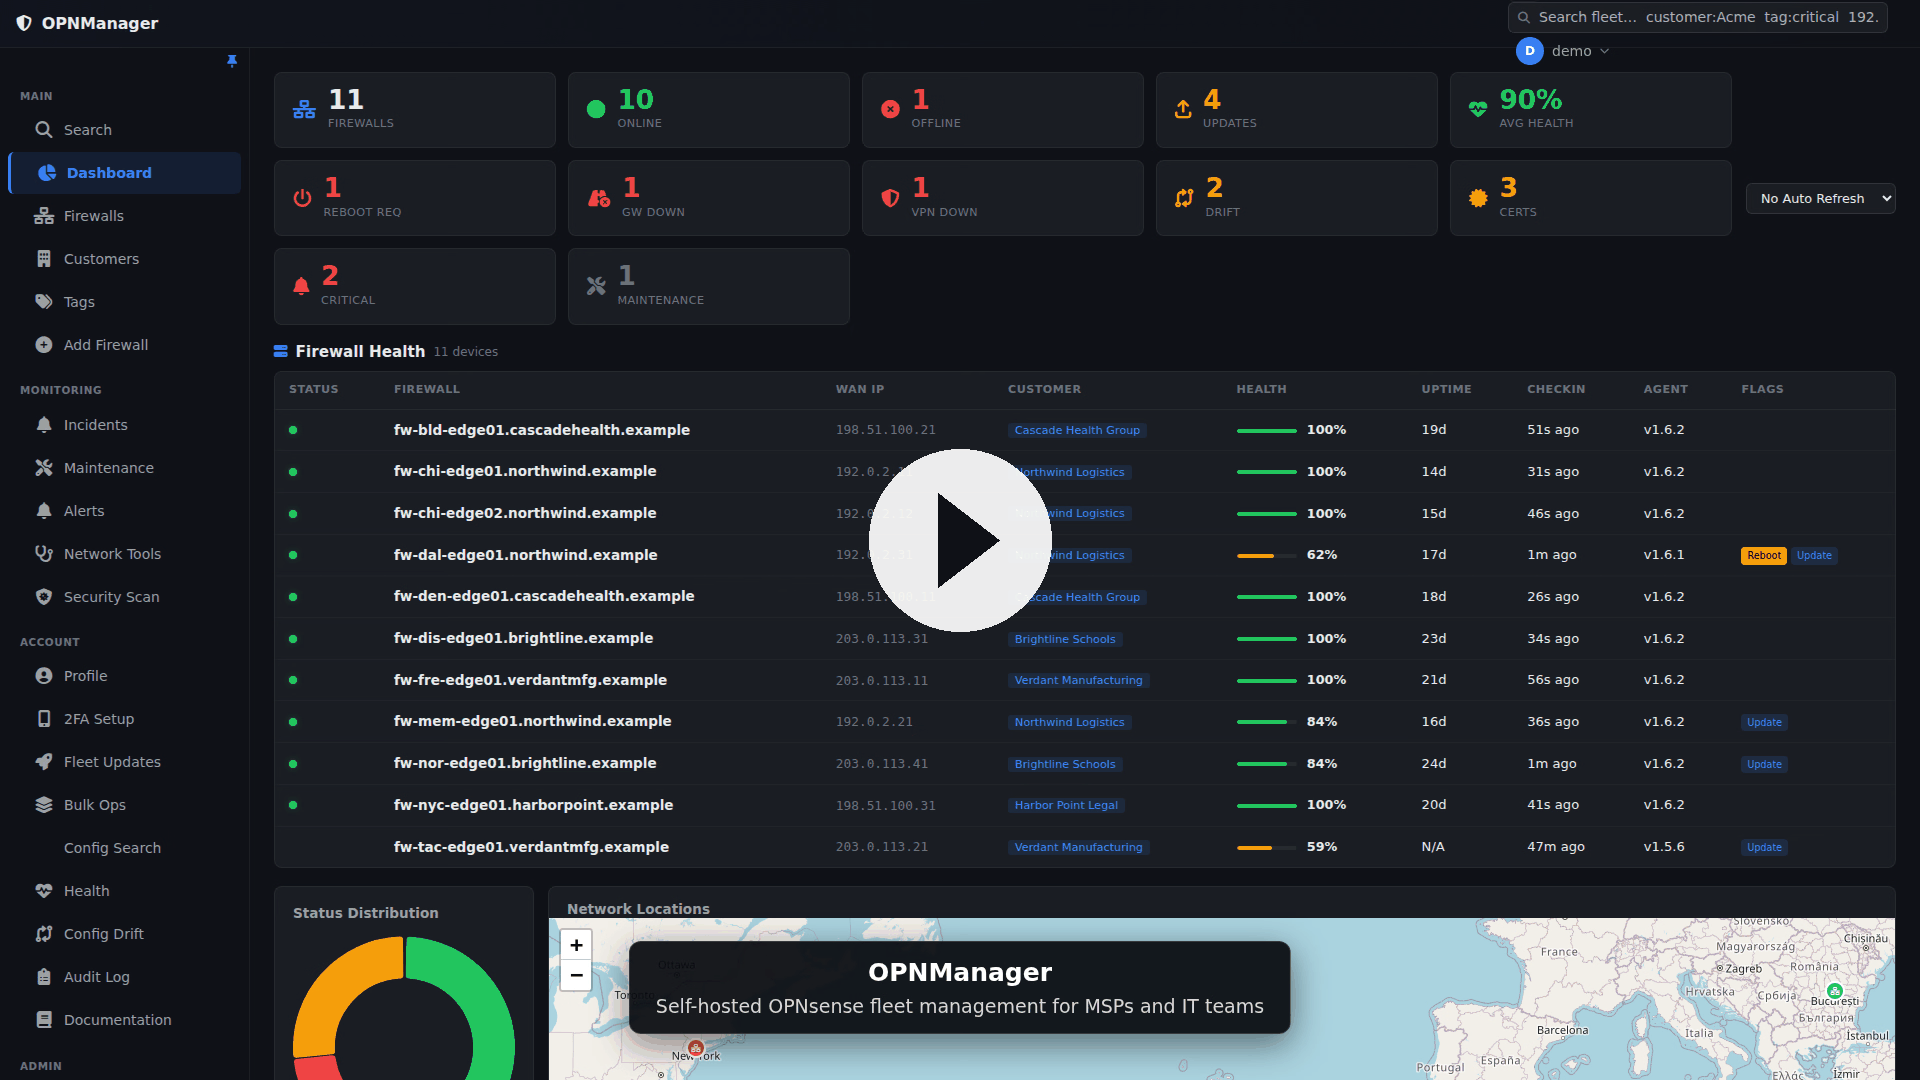
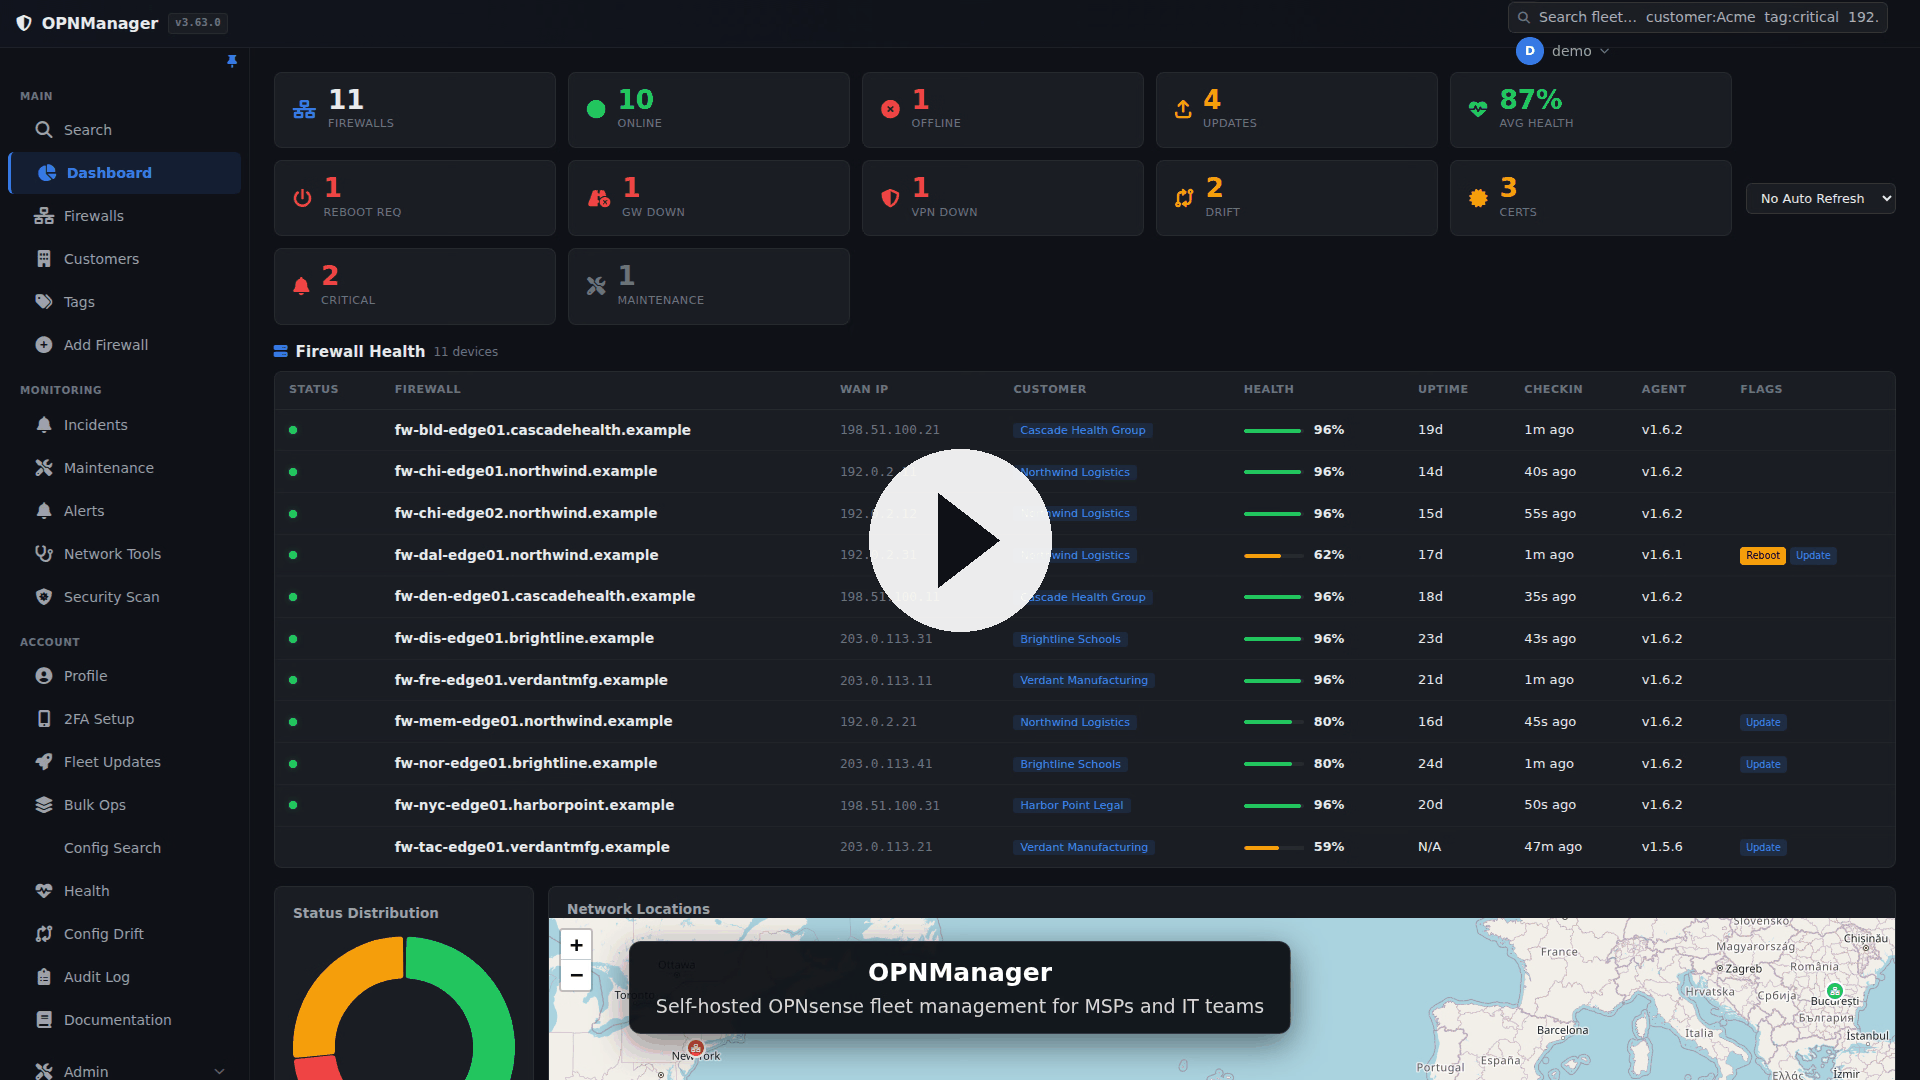
v3.63.1: poster frame
The walkthrough was re-recorded and its poster frame regenerated, so the
last stale documentation asset matches the current build: it shows the
version in the header and the grouped admin menu.

- only the poster is committed, at 1920x1080. The MP4s remain release
  assets and are gitignored - a binary that regenerates from a script does
  not need to sit in git history
- the demo environment was stood up and dismantled again: throwaway
  database, web root, account, server, recording and encoded video all
  removed, production confirmed untouched at two firewalls

diff --git a/inc/version.php b/inc/version.php
@@ -12,7 +12,7 @@ $app_version = file_exists($version_file) ? trim(file_get_contents($version_file
 if (!defined('APP_NAME')) { define('APP_NAME', 'OPNManager'); }
 if (!defined('APP_VERSION')) { define('APP_VERSION', $app_version); }
 if (!defined('APP_VERSION_DATE')) { define('APP_VERSION_DATE', '2026-09-17'); }
-if (!defined('APP_VERSION_NAME')) { define('APP_VERSION_NAME', 'Recaptured'); }
+if (!defined('APP_VERSION_NAME')) { define('APP_VERSION_NAME', 'Poster Frame'); }
 
 // AGENT_VERSION is THE single constant for "newest agent available to install".
 // Its value must match the newest released tarball in downloads/plugins/, because
@@ -43,6 +43,17 @@ function getChangelogEntries($limit = 10) {
     // $limit was accepted and ignored: about.php asks for 3 and rendered the
     // entire history. Slice before returning.
     $entries = [
+        [
+            'version' => '3.63.1',
+            'date' => '2026-09-17',
+            'type' => 'patch',
+            'title' => 'Poster Frame',
+            'changes' => [
+                'CHANGED: The walkthrough was re-recorded and its poster frame regenerated, so the last stale documentation asset matches the current build - it shows the version in the header and the grouped admin menu',
+                'CHANGED: Only the poster is committed, at 1920x1080. The MP4s remain release assets and are gitignored: a binary that regenerates from a script does not need to sit in git history',
+                'CHANGED: The demo environment was stood up and dismantled again - throwaway database, web root, account, server, recording and encoded video all removed, production confirmed untouched at two firewalls',
+            ],
+        ],
         [
             'version' => '3.63.0',
             'date' => '2026-09-17',

diff --git a/README.md b/README.md
@@ -6,7 +6,7 @@
 
 [![CI](https://github.com/agit8or1/OPNMGR/actions/workflows/ci.yml/badge.svg?branch=main)](https://github.com/agit8or1/OPNMGR/actions/workflows/ci.yml)
 [![License: MIT](https://img.shields.io/badge/license-MIT-green)](LICENSE)
-[![v3.63.0](https://img.shields.io/badge/version-3.63.0-blue)](CHANGELOG.md)
+[![v3.63.1](https://img.shields.io/badge/version-3.63.1-blue)](CHANGELOG.md)
 
 [Quick Start](#quick-start) ·
 [Screenshots](docs/SCREENSHOTS.md) ·
@@ -176,12 +176,12 @@ The agent installs as a native plugin, checks in every two minutes by default, l
 
 | | Version | Notes |
 |---|---|---|
-| Application | 3.63.0 | Install from `main`. |
+| Application | 3.63.1 | Install from `main`. |
 | Agent | v1.6.7 | Newest published package. Not in this repo — see Known limitations. |
 | Minimum supported agent | 1.3.0 | Not enforced at check-in: older agents still report in, but lose health score and version-gated features. |
 | Database schema | 1.4.0 | `database/schema.sql`, regenerated by `scripts/generate_schema.sh`. |
 
-CI enforces these against `VERSION` and the published artifact — application 3.63.0,
+CI enforces these against `VERSION` and the published artifact — application 3.63.1,
 **Agent**: v1.6.7 — so no reference in the tree can drift out of step.
 
 Feature availability depends on the agent version a firewall is actually running:

diff --git a/CHANGELOG.md b/CHANGELOG.md
@@ -6,6 +6,23 @@ All notable changes to OPNManager are documented here.
 
 ---
 
+## Version 3.63.1
+**Released**: September 17, 2026 | **Agent**: v1.6.7
+
+### Changed
+
+- **The walkthrough was re-recorded and its poster frame regenerated**, so the
+  last stale documentation asset matches the current build: it shows the version
+  in the header and the grouped admin menu.
+- Only the poster is committed, at 1920x1080. The MP4s remain release assets and
+  are gitignored - a binary that regenerates from a script does not need to sit
+  in git history.
+- The demo environment was stood up and dismantled again: throwaway database, web
+  root, account, server, recording and encoded video all removed, production
+  confirmed untouched.
+
+---
+
 ## Version 3.63.0
 **Released**: September 17, 2026 | **Agent**: v1.6.7
 
